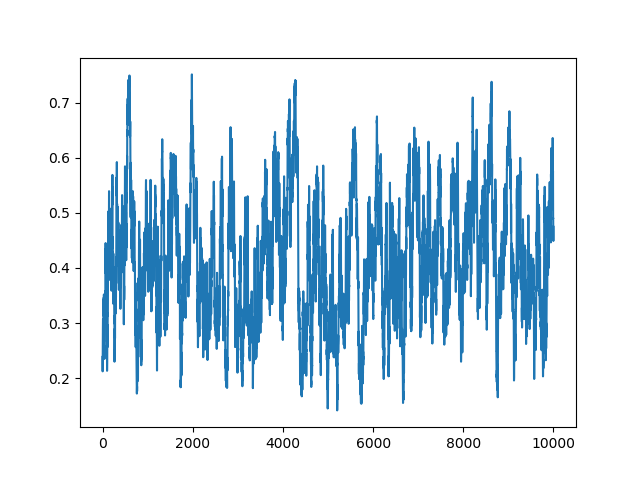
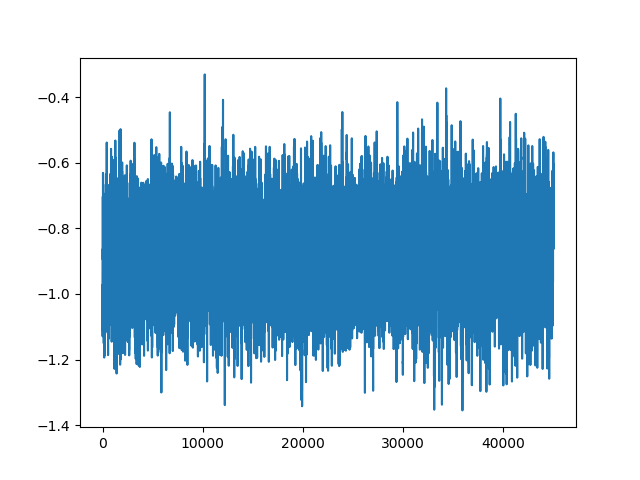
EP-ABC implemented for toy example + IID optimization

diff --git a/project/simple_binomial.py b/project/simple_binomial.py
@@ -13,6 +13,10 @@ import matplotlib.pyplot as plt
 import seaborn as sns
 
 
+def logit(theta):
+    return np.log(theta / (1. - theta))
+
+
 def logistic(theta):
     """Logistic function."""
     return 1. / (1. + np.exp(-theta))
@@ -36,30 +40,37 @@ def mcmc_abc(data, M=10000, sigma=1e-1, eps=1e-1):
         eps - ABC epsilon
 
     Returns:
-        ps - samples for p
+        ps - samples for logit(p)
     """
     ps = np.zeros((M + 1,), dtype='float64')
 
     # Summary statistics from data
     D = np.array([np.mean(data), np.std(data)])
 
-    # Transform to unbounded space
-    ps[0] = -np.log(1. / stats.beta(2, 2).rvs() - 1.)
+    # # Initialize with prior
+    # ps[0] = -np.log(1. / stats.beta(2, 2).rvs() - 1.)
+    # Initialize around zero
+    ps[0] = 0.1 * np.random.randn()
 
     for m in tqdm(range(M)):
         while True:
             pnew = ps[m] + sigma * np.random.randn()
 
-            data_sim = np.random.binomial(3, logistic(pnew), size=5)
+            data_sim = np.random.binomial(3, logistic(pnew), size=len(data))
             Dsim = np.array([np.mean(data_sim), np.std(data_sim)])
 
-            if np.linalg.norm(D - Dsim) <= eps:
+            if np.linalg.norm(D - Dsim, ord=1) <= eps:
                 break
 
-        lacc = stats.beta(2, 2).logpdf(logistic(pnew)) + \
-            loglogistic(pnew) + np.log(1 - logistic(pnew)) - \
-            (stats.beta(2, 2).logpdf(logistic(ps[m])) + \
-            loglogistic(ps[m]) + np.log(1 - logistic(ps[m])))
+        # # Beta(2, 2) prior
+        # lacc = stats.beta(2, 2).logpdf(logistic(pnew)) + \
+        #     loglogistic(pnew) + np.log(1 - logistic(pnew)) - \
+        #     (stats.beta(2, 2).logpdf(logistic(ps[m])) + \
+        #     loglogistic(ps[m]) + np.log(1 - logistic(ps[m])))
+        # Normal(0, 1.6) prior on unbounded scale
+        lacc = stats.norm(0, 1.6).logpdf(pnew) - \
+            stats.norm(0, 1.6).logpdf(ps[m])
+
         # Metropolis-Hastings acceptance step
         h = min(1, np.exp(lacc))
         if np.random.rand() <= h:
@@ -67,7 +78,7 @@ def mcmc_abc(data, M=10000, sigma=1e-1, eps=1e-1):
         else:
             ps[m + 1] = ps[m]
 
-    return logistic(ps)
+    return ps
 
 
 def mh(data, M=10000, sigma=1e-1):
@@ -82,22 +93,30 @@ def mh(data, M=10000, sigma=1e-1):
         sigma - random walk std dev
 
     Returns:
-        ps - samples for p
+        ps - samples for logit(p)
     """
     ps = np.zeros((M + 1,), dtype='float64')
 
-    # Transform to unbounded space
-    ps[0] = -np.log(1. / stats.beta(2, 2).rvs() - 1.)
+    # # Initialize with prior
+    # ps[0] = -np.log(1. / stats.beta(2, 2).rvs() - 1.)
+    # Initialize around zero
+    ps[0] = 0.1 * np.random.randn()
 
     for m in tqdm(range(M)):
         pnew = ps[m] + sigma * np.random.randn()
 
+        # # Beta(2, 2) prior
+        # lacc = np.sum(stats.binom.logpmf(data, 3, logistic(pnew))) + \
+        #     stats.beta(2, 2).logpdf(logistic(pnew)) + \
+        #     loglogistic(pnew) + np.log(1 - logistic(pnew)) - \
+        #     (np.sum(stats.binom.logpmf(data, 3, logistic(ps[m]))) + \
+        #      stats.beta(2, 2).logpdf(logistic(ps[m])) + \
+        #      loglogistic(ps[m]) + np.log(1 - logistic(ps[m])))
+        # Normal(0, 1.6) prior on unbounded scale
         lacc = np.sum(stats.binom.logpmf(data, 3, logistic(pnew))) + \
-            stats.beta(2, 2).logpdf(logistic(pnew)) + \
-            loglogistic(pnew) + np.log(1 - logistic(pnew)) - \
+            stats.norm(0, 1.6).logpdf(pnew) - \
             (np.sum(stats.binom.logpmf(data, 3, logistic(ps[m]))) + \
-             stats.beta(2, 2).logpdf(logistic(ps[m])) + \
-             loglogistic(ps[m]) + np.log(1 - logistic(ps[m])))
+             stats.norm(0, 1.6).logpdf(ps[m]))
 
         # Metropolis-Hastings acceptance step
         h = min(1, np.exp(lacc))
@@ -106,47 +125,197 @@ def mh(data, M=10000, sigma=1e-1):
         else:
             ps[m + 1] = ps[m]
 
-    return logistic(ps)
+    return ps
 
 
-def ep_abc(data, M=10000, eps=1e-1):
+def ep_abc(data, passes=3, M=10000, Mbatch=1000, eps=1e-1):
     """Implementation of EP-ABC for the particular problem.
 
     Very naive implementation of EP-ABC for one parameter.
 
     Parameters:
         data - data from the experiment
-        M - number of samples for moment matching
+        passes - number of passes through the dataset
+        M - minimum number of accepted samples for moment matching
+        Mbatch - number of samples created in every batch
         eps - ABC epsilon
     """
+    # Length of data
+    N = len(data)
 
+    # For each data point an approximating distribution N(r, q) is sought after
+    # In the beginning assume r = 0 and q = 0 for all but prior distribution
+    # Initial approximation is then q = f0, i.e. the prior
+
+    # Create arrays for precisions and precision means
+    r = np.zeros((N + 1,), dtype='float64')
+    q = np.zeros((N + 1,), dtype='float64')
+
+    # Prior Normal(0, 1.6)
+    r[0] = 0.           # Precision mean
+    q[0] = 1. / 1.6**2  # Precision
+
+    for k in tqdm(range(passes)):
+        for i in tqdm(range(1, N + 1)):
+            # Cavity distribution with respect to i-th data point
+            r_cavity = np.sum(r[:i]) + np.sum(r[(i + 1):])
+            q_cavity = np.sum(q[:i]) + np.sum(q[(i + 1):])
+
+            m_acc = 0
+            theta_acc = np.array([], dtype='float64')
+            while True:
+                # ABC scheme to calculate new r and q
+                theta = stats.norm(r_cavity / q_cavity,
+                                   np.sqrt(1. / q_cavity)).rvs(Mbatch)
+                sim_data = stats.binom.rvs(3, logistic(theta))
+
+                acc_vec = (np.abs(sim_data - data[i - 1]) <= eps)
+                m_acc += np.sum(acc_vec.astype('int'))
+
+                theta_acc = np.concatenate((theta_acc, theta[acc_vec]))
+
+                if m_acc >= M:
+                    break
+
+            mu_tilted = np.sum(theta_acc) / m_acc
+            var_tilted = np.sum(theta_acc**2) / m_acc - mu_tilted**2
+
+            r[i] = mu_tilted / var_tilted - r_cavity
+            q[i] = 1. / var_tilted - q_cavity
+
+    return np.sum(r) / np.sum(q), np.sqrt(1. / np.sum(q))
+
+
+def ep_abc_iid(data, passes=3, M=10000, Mbatch=1000, eps=1e-1, ess_min=3000):
+    """Implementation of iid optimised EP-ABC for the particular problem.
+
+    IID optimised implementation of EP-ABC for one parameter.
+
+    Parameters:
+        data - data from the experiment
+        passes - number of passes through the dataset
+        M - minimum number of accepted samples for moment matching
+        Mbatch - number of samples created in every batch
+        eps - ABC epsilon
+    """
+    # Length of data
+    N = len(data)
+
+    # For each data point an approximating distribution N(r, q) is sought after
+    # In the beginning assume r = 0 and q = 0 for all but prior distribution
+    # Initial approximation is then q = f0, i.e. the prior
+
+    # Create arrays for precisions and precision means
+    r = np.zeros((N + 1,), dtype='float64')
+    q = np.zeros((N + 1,), dtype='float64')
+
+    # Prior Normal(0, 1.6)
+    r[0] = 0.           # Precision mean
+    q[0] = 1. / 1.6**2  # Precision
+
+    def sample(mu_gen, sigma_gen, i):
+        theta = np.array([], dtype='float64')
+        sim_data = np.array([], dtype='int')
+        acc_vec = np.array([], dtype='int')
+        m_acc = 0
+        while True:
+            theta_tmp = stats.norm(mu_gen, sigma_gen).rvs(Mbatch)
+            sim_data_tmp = stats.binom.rvs(3, logistic(theta_tmp))
+
+            acc_vec_tmp = (np.abs(sim_data_tmp - data[i]) <= eps)
+            m_acc += np.sum(acc_vec.astype('int'))
+
+            theta = np.concatenate((theta, theta_tmp))
+            sim_data = np.concatenate((sim_data, sim_data_tmp))
+            acc_vec = np.concatenate((acc_vec, acc_vec_tmp))
+
+            if m_acc >= M:
+                break
+
+        return theta, sim_data, acc_vec.astype('float64')
+
+    ess = np.zeros((passes, N), dtype='float64')
+
+    for k in tqdm(range(passes)):
+        for i in tqdm(range(1, N + 1)):
+            # Cavity distribution with respect to i-th data point
+            r_cavity = np.sum(r[:i]) + np.sum(r[(i + 1):])
+            q_cavity = np.sum(q[:i]) + np.sum(q[(i + 1):])
+
+            if k == 0 and i == 1:
+                # Set new generative mu and sigma
+                mu_gen = r_cavity / q_cavity
+                sigma_gen = np.sqrt(1. / q_cavity)
+
+                # New samples
+                theta, sim_data, ws = sample(mu_gen, sigma_gen, i - 1)
+            else:
+                # Calculate importance sampling weights
+                ws = np.exp(
+                    stats.norm(r_cavity / q_cavity,
+                               np.sqrt(1. / q_cavity)).logpdf(theta) -
+                    stats.norm(mu_gen, sigma_gen).logpdf(theta)) * \
+                    (np.abs(sim_data - data[i - 1]) <= eps)
+
+            # Calculate effective sample size
+            ess[k, i - 1] = np.sum(ws)**2 / np.sum(ws**2)
+            if ess[k, i - 1] < ess_min:
+                # If ESS is too low then resample
+                # Set new generative mu and sigma
+                mu_gen = r_cavity / q_cavity
+                sigma_gen = np.sqrt(1. / q_cavity)
+
+                # New samples
+                theta, sim_data, ws = sample(mu_gen, sigma_gen, i - 1)
+
+            z_norm = np.sum(ws)
+            mu_tilted = np.sum(ws * theta) / z_norm
+            var_tilted = np.sum(ws * theta**2) / z_norm - mu_tilted**2
+
+            r[i] = mu_tilted / var_tilted - r_cavity
+            q[i] = 1. / var_tilted - q_cavity
+
+    return np.sum(r) / np.sum(q), np.sqrt(1. / np.sum(q)), ess
 
 
 if __name__ == '__main__':
     sns.set_style()
 
     # Simulate data
-    data = np.random.binomial(3, 0.3, size=5)
-    print(data)
+    data = np.random.binomial(3, 0.3, size=100)
+    print('Data', data)
+    print(np.mean(data), np.std(data))
+
+    mu, sigma, ess = ep_abc_iid(data, M=100000, Mbatch=10000,
+                                ess_min=60000, eps=1e-1)
+    print('\nEP-ABC IID-opt', mu, sigma)
+
+    # mu, sigma = ep_abc(data, M=100000, Mbatch=10000, eps=1e-1)
+    # print('\nEP-ABC', mu, sigma)
 
     # Infere parameters
-    ps_abc = mcmc_abc(data)
-    ps_mh = mh(data)
+    ps_abc = mcmc_abc(data, M=50000, eps=.15)[5000:]
+    ps_mh = mh(data, M=50000)[5000:]
 
     # Exact solution with conjugate prior
-    xs = np.arange(0., 1., 1e-2)
+    xs = np.arange(0.01, 1., 1e-3)
     ys = stats.beta(2 + np.sum(data), 2 + np.sum(3 - data)).pdf(xs)
 
+    # Solution from expectation propagation
+    ys_ep = stats.norm(mu, sigma).pdf(logit(xs)) / (xs * (1 - xs))
+
     # Kernel density estimates for the samples
-    kde_abc = stats.gaussian_kde(ps_abc, 'silverman')
-    kde_mh = stats.gaussian_kde(ps_mh, 'silverman')
+    kde_abc = stats.gaussian_kde(logistic(ps_abc), 'silverman')
+    kde_mh = stats.gaussian_kde(logistic(ps_mh), 'silverman')
 
     # Plot solutions
     plt.plot(xs, ys)
     plt.plot(xs, kde_abc(xs))
     plt.plot(xs, kde_mh(xs))
+    plt.plot(xs, ys_ep)
     # plt.hist(logistic(ps_abc), bins=30, density=True, alpha=0.4, color='b');
     # plt.hist(logistic(ps_mh), bins=30, density=True, alpha=0.4, color='r');
+    plt.legend(['Analytic', 'MCMC-ABC', 'MH', 'EP-ABC'])
 
     plt.savefig('p_densities.png')
 
